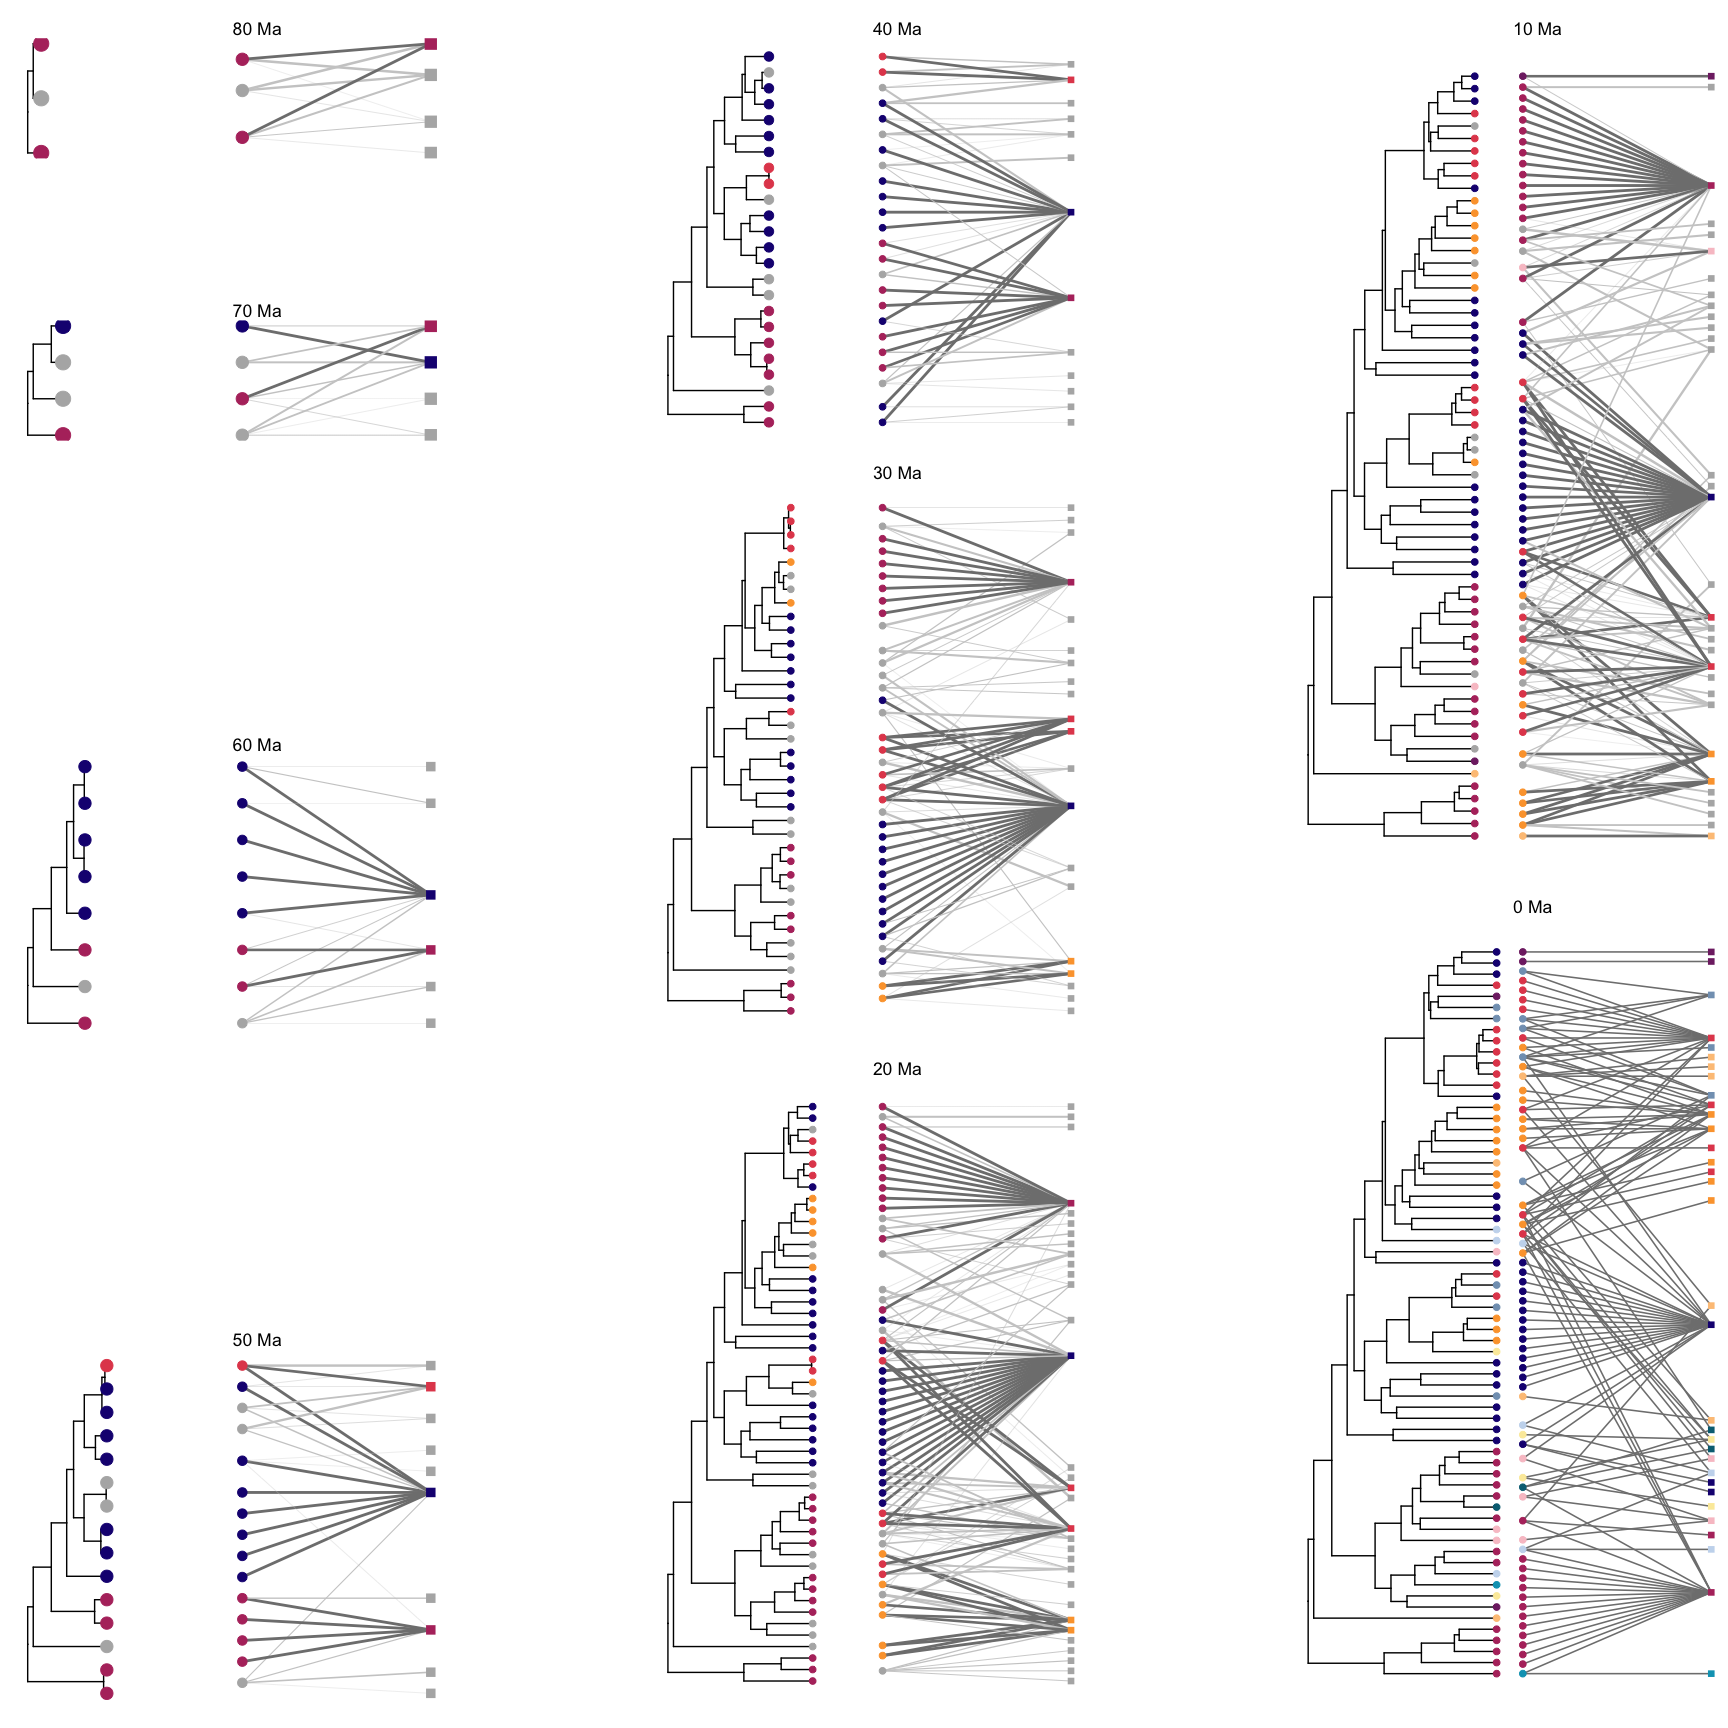
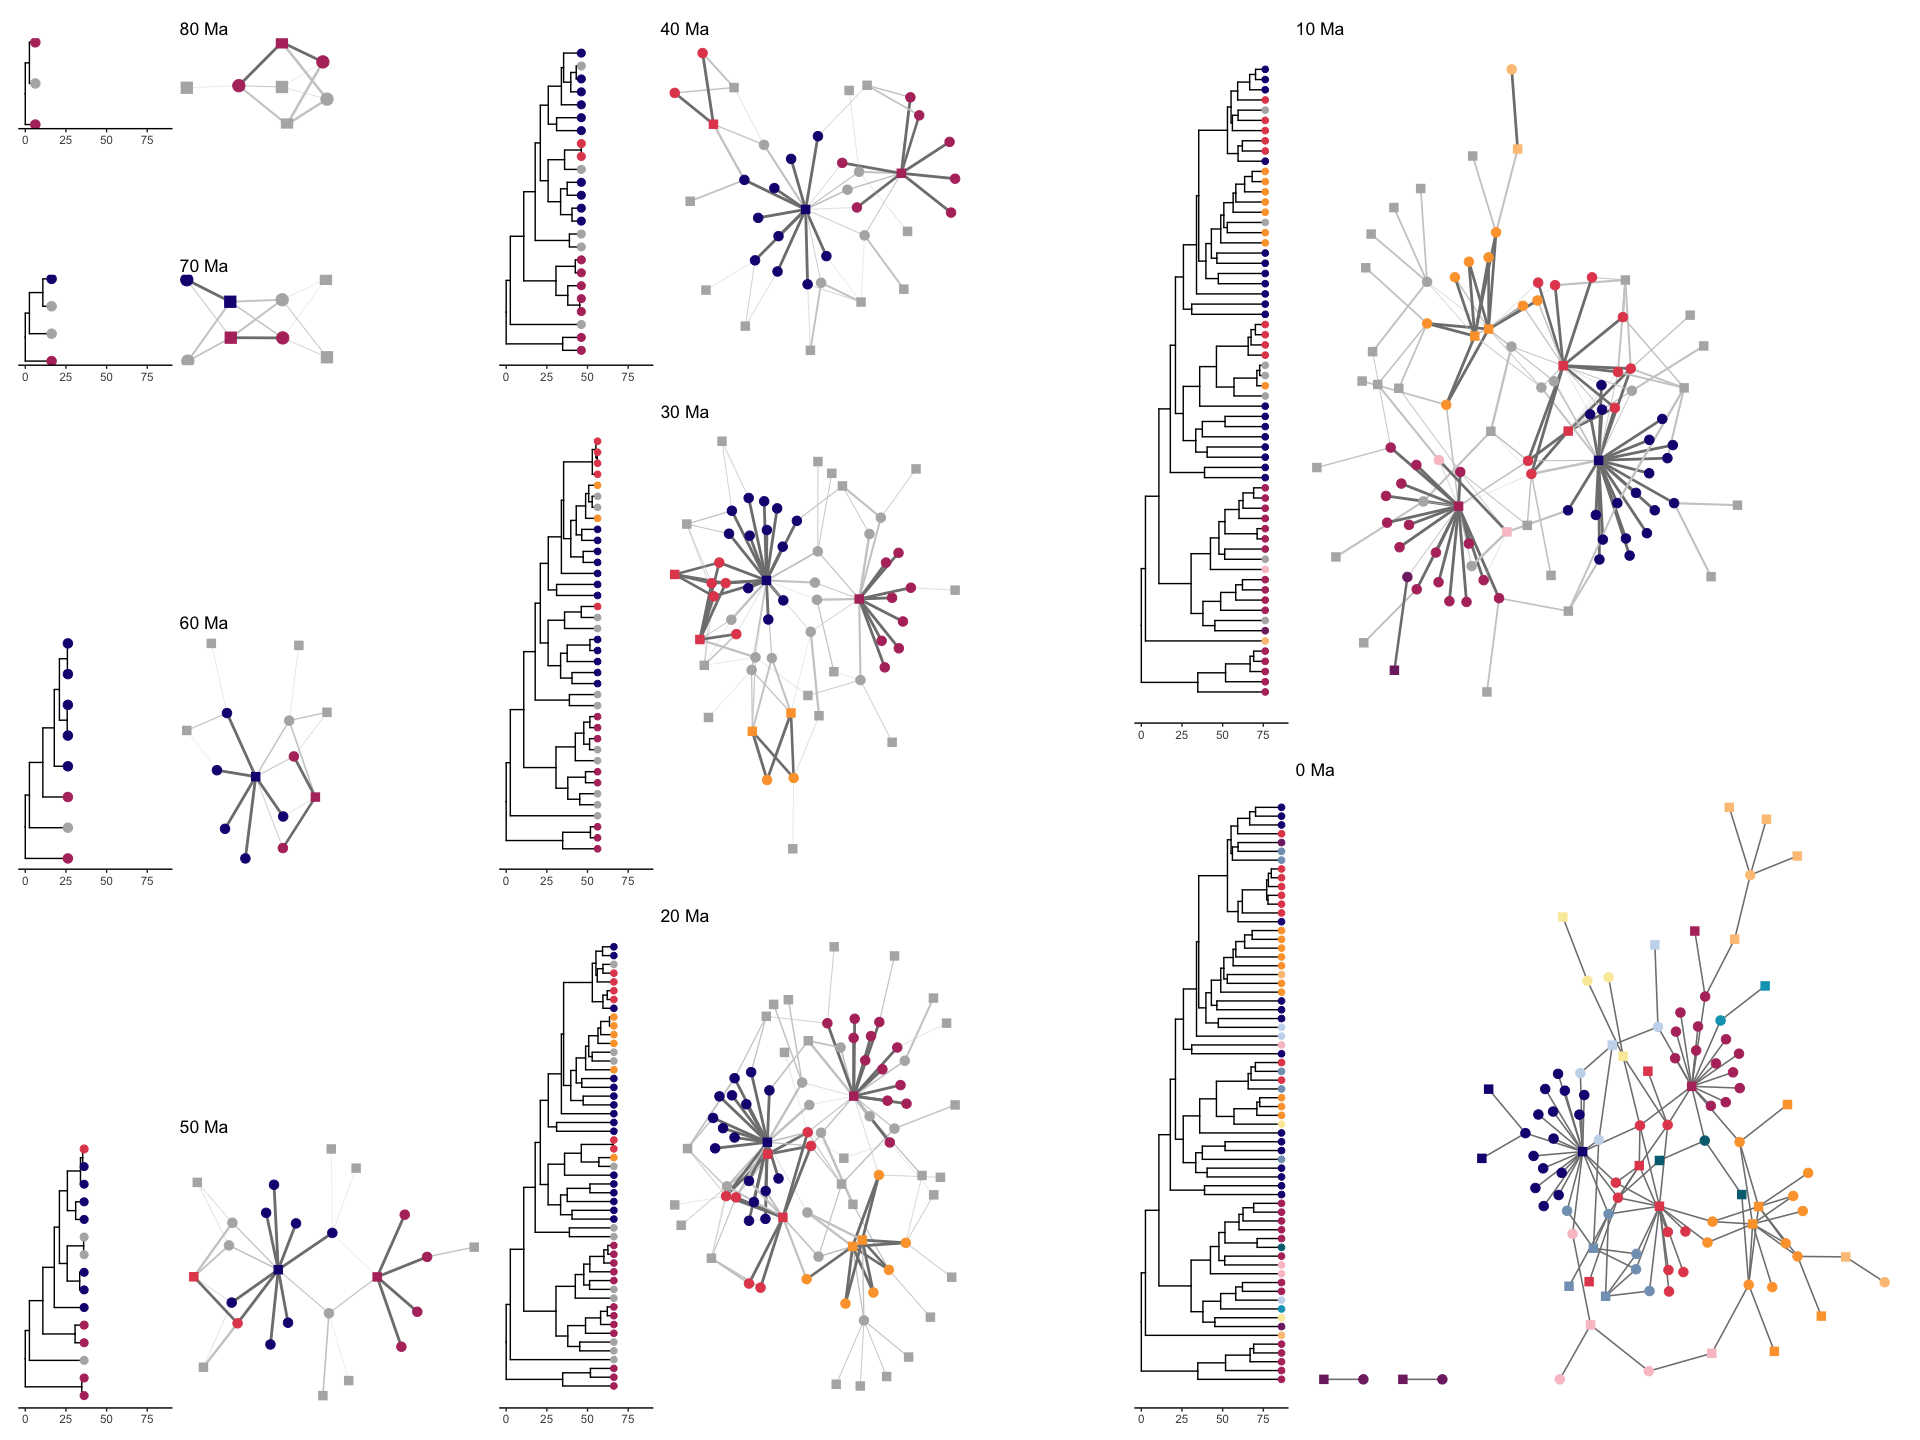
networks graphs bipartite to unipartite (fig 3)

diff --git a/2-Pieridae_histories.md b/2-Pieridae_histories.md
@@ -1,7 +1,7 @@
 Pieridae host repertoire - Character history
 ================
 Mariana Braga
-05 May, 2020
+13 May, 2020
 
 -----
 
@@ -63,7 +63,10 @@ it_seq <- seq(20000,200000, 50)
 
 # Time-calibrated tree
 history_dat_time <- filter(history_dat_time, iteration %in% it_seq) %>% 
-  mutate(node_index = node_index + 1)
+  mutate(node_index = node_index + 1,
+         parent_index = parent_index + 1,
+         child1_index = child1_index + 1,
+         child2_index = child2_index + 1)
 
 write.table(history_dat_time,"./inference/history.time.txt", sep="\t", quote = F, row.names = F)
 
@@ -71,7 +74,10 @@ write.table(history_dat_time,"./inference/history.time.txt", sep="\t", quote = F
 history_dat_bl1 = read.table("./inference/out.3.bl1.pieridae.2s.history.txt", sep="\t", header=T, colClasses = colclasses)
 
 history_dat_bl1 <- filter(history_dat_bl1, iteration %in% it_seq) %>% 
-  mutate(node_index = node_index + 1)
+  mutate(node_index = node_index + 1,
+         parent_index = parent_index + 1,
+         child1_index = child1_index + 1,
+         child2_index = child2_index + 1)
 
 write.table(history_dat_bl1,"./inference/history.bl1.txt", sep="\t", quote = F, row.names = F)
 ```
@@ -138,7 +144,7 @@ This part is slow, so I won’t run it here.
 list_m_at_ages = list()
 for (i in 1:(length(ages)-1)) {
   age = ages[i]
-  list_m_at_ages[[i]] = t(make_matrix_at_age( history_dat_time, age, s_hit=c(2) ))
+  list_m_at_ages[[i]] = t(make_matrix_at_age( history_dat_bl1, age, s_hit=c(2) ))
 }
 ```
 
@@ -326,8 +332,8 @@ list_tip_data[[9]] <- tibble(label = tree$tip.label) %>%
 mod_levels <- paste0('M',1:12)
 custom_pal <- c("#b4356c","#1b1581","#e34c5b","#fca33a","#fbeba9","#fdc486",
                 "#802b72","#f8c4cc","#c8d9ee","#82a0be","#00a2bf","#006e82")
-tip_size = c(5,5,4,4,3,2,2,2,2)
-node_size = c(4,4,3,3,2,2,2,2,2)
+tip_size = c(3,3,3,2.5,2.5,2,2,2,2)
+node_size = c(4,4,3,3,3,3,3,3,3)
 
 for(i in 1:length(ages)){
   
@@ -337,6 +343,7 @@ for(i in 1:length(ages)){
     geom_rootedge(rootedge = 1) +
     scale_color_manual(values = custom_pal,na.value = "grey70", drop = F) +
     xlim(c(0,tree$root.time)) +
+    theme_tree2() +
     theme(legend.position = "none")
   
   assign(paste0("ggt_",ages[[i]]), ggt)
@@ -347,7 +354,7 @@ for(i in 1:length(ages)){
   laybip = layout_as_bipartite(graph)
   laybip = laybip[,c(2,1)]
   
-  ggn <- ggraph(graph, layout = laybip) +
+  ggn <- ggraph(graph, layout = 'stress') + #, layout = laybip) +
     geom_edge_link(aes(width = weight, color = highpp)) + 
     geom_node_point(aes(shape = type, color = factor(module, levels = mod_levels)), size = node_size[i]) +
     scale_shape_manual(values = c("square","circle")) +
@@ -369,17 +376,17 @@ design <- c(patchwork::area(1, 1, 1, 1),
             patchwork::area(6, 1, 7, 1),
             patchwork::area(6, 2, 7, 2),
             patchwork::area(10,1,12, 1),
-            patchwork::area(10,2,12, 2),
+            patchwork::area(10,2,12, 3),
             patchwork::area(1, 4, 3, 4),
-            patchwork::area(1, 5, 3, 5),
+            patchwork::area(1, 5, 3, 6),
             patchwork::area(4, 4, 7, 4),
-            patchwork::area(4, 5, 7, 5),
+            patchwork::area(4, 5, 7, 6),
             patchwork::area(8, 4,12, 4),
-            patchwork::area(8, 5,12, 5),
-            patchwork::area(1, 7, 6, 7),
+            patchwork::area(8, 5,12, 6),
             patchwork::area(1, 8, 6, 8),
-            patchwork::area(7, 7,12, 7),
-            patchwork::area(7, 8,12, 8))
+            patchwork::area(1, 9, 6,11),
+            patchwork::area(7, 8,12, 8),
+            patchwork::area(7, 9,12,12))
 ```
 
 ``` r
@@ -403,7 +410,9 @@ ggt_80 + ggn_80 +
 To build weighted networks we use the posterior probabilities as weights
 for each interaction. But since many interactions have really small
 probabilities, we can set a minimum probability, below which the weight
-is set to 0.
+is set to 0. Here I’ll use the same minimum as I used before for
+constructing the graphs. These are independent steps, but it makes sense
+to use the same values.
 
 ``` r
 # probability threshold
